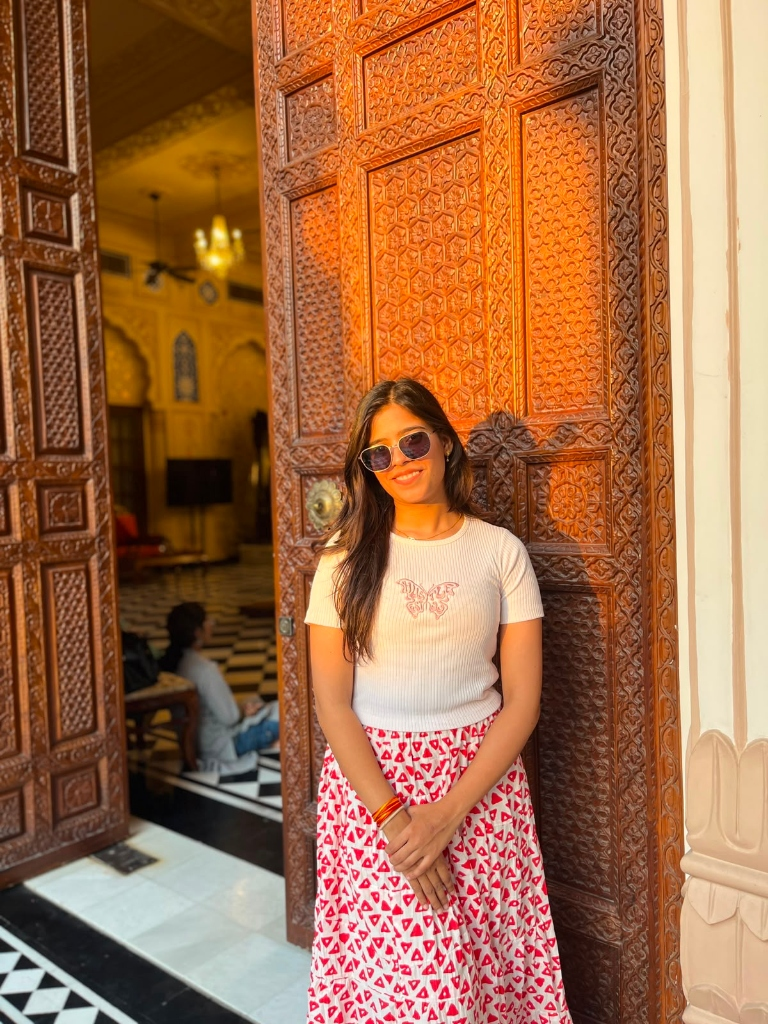
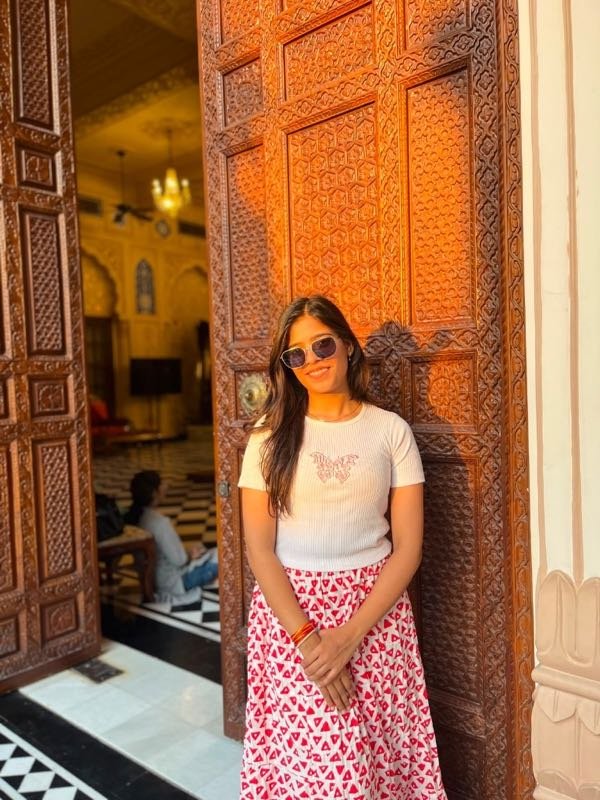
perf(speed): optimize CLS layout shifts, font preloads, image compression, and Vercel CDN caching headers

Changed region(s): [[0.39, 0.75, 0.75, 1.0], [0.48, 0.7188, 0.63, 0.7812], [0.57, 0.0, 0.6, 0.0312]]

diff --git a/src/app/globals.css b/src/app/globals.css
@@ -1021,6 +1021,7 @@ a svg,
   font-family: "Cormorant Garamond";
   font-style: italic;
   font-weight: 300;
+  font-display: swap;
   src: url("/assets/extracted/asset-e6d6d1d7.woff2") format("woff2");
   unicode-range:
     U+0000-00FF, U+0131, U+0152-0153, U+02BB-02BC, U+02C6, U+02DA, U+02DC,
@@ -1031,6 +1032,7 @@ a svg,
   font-family: "Cormorant Garamond";
   font-style: normal;
   font-weight: 300;
+  font-display: swap;
   src: url("/assets/extracted/asset-5d618c46.woff2") format("woff2");
   unicode-range:
     U+0000-00FF, U+0131, U+0152-0153, U+02BB-02BC, U+02C6, U+02DA, U+02DC,
@@ -1042,18 +1044,21 @@ a svg,
   src: url("/assets/extracted/asset-8a24f395.woff2") format("woff2");
   font-weight: 300;
   font-style: normal;
+  font-display: swap;
 }
 @font-face {
   font-family: "Satoshi";
   src: url("/assets/extracted/asset-50dca57f.woff2") format("woff2");
   font-weight: 400;
   font-style: normal;
+  font-display: swap;
 }
 @font-face {
   font-family: "Satoshi";
   src: url("/assets/extracted/asset-af02a722.woff2") format("woff2");
   font-weight: 500;
   font-style: normal;
+  font-display: swap;
 }
 *,
 ::before,

diff --git a/src/app/layout.js b/src/app/layout.js
@@ -84,6 +84,27 @@ export default function RootLayout({ children }) {
     // (e.g. password managers, dark-mode tools) that inject attributes on <html>.
     <html lang="en" suppressHydrationWarning>
       <head>
+        <link
+          rel="preload"
+          href="/assets/extracted/asset-50dca57f.woff2"
+          as="font"
+          type="font/woff2"
+          crossOrigin="anonymous"
+        />
+        <link
+          rel="preload"
+          href="/assets/extracted/asset-5d618c46.woff2"
+          as="font"
+          type="font/woff2"
+          crossOrigin="anonymous"
+        />
+        <link
+          rel="preload"
+          href="/assets/extracted/asset-8a24f395.woff2"
+          as="font"
+          type="font/woff2"
+          crossOrigin="anonymous"
+        />
         <link rel="icon" href="/favicon-48x48.png" sizes="48x48" type="image/png" />
         <link rel="icon" href="/icon-192.png" sizes="192x192" type="image/png" />
         <link rel="apple-touch-icon" href="/apple-touch-icon.png" sizes="180x180" />

diff --git a/src/components/PageShell.js b/src/components/PageShell.js
@@ -26,8 +26,13 @@ import DOMPurify from "isomorphic-dompurify";
 export default function PageShell({ content }) {
   return (
     <>
-      {/* Per-page CSS — HTTP-cacheable static file */}
-      {content.cssUrl && <link rel="stylesheet" href={content.cssUrl} />}
+      {/* Per-page CSS — HTTP-cacheable static file with preload to eliminate layout shifts (CLS) */}
+      {content.cssUrl && (
+        <>
+          <link rel="preload" href={content.cssUrl} as="style" />
+          <link rel="stylesheet" href={content.cssUrl} />
+        </>
+      )}
       <Navbar />
       {/* Pre-rendered page body from processedContent.json */}
       <div dangerouslySetInnerHTML={{ __html: DOMPurify.sanitize(content.bodyHtml) }} />
